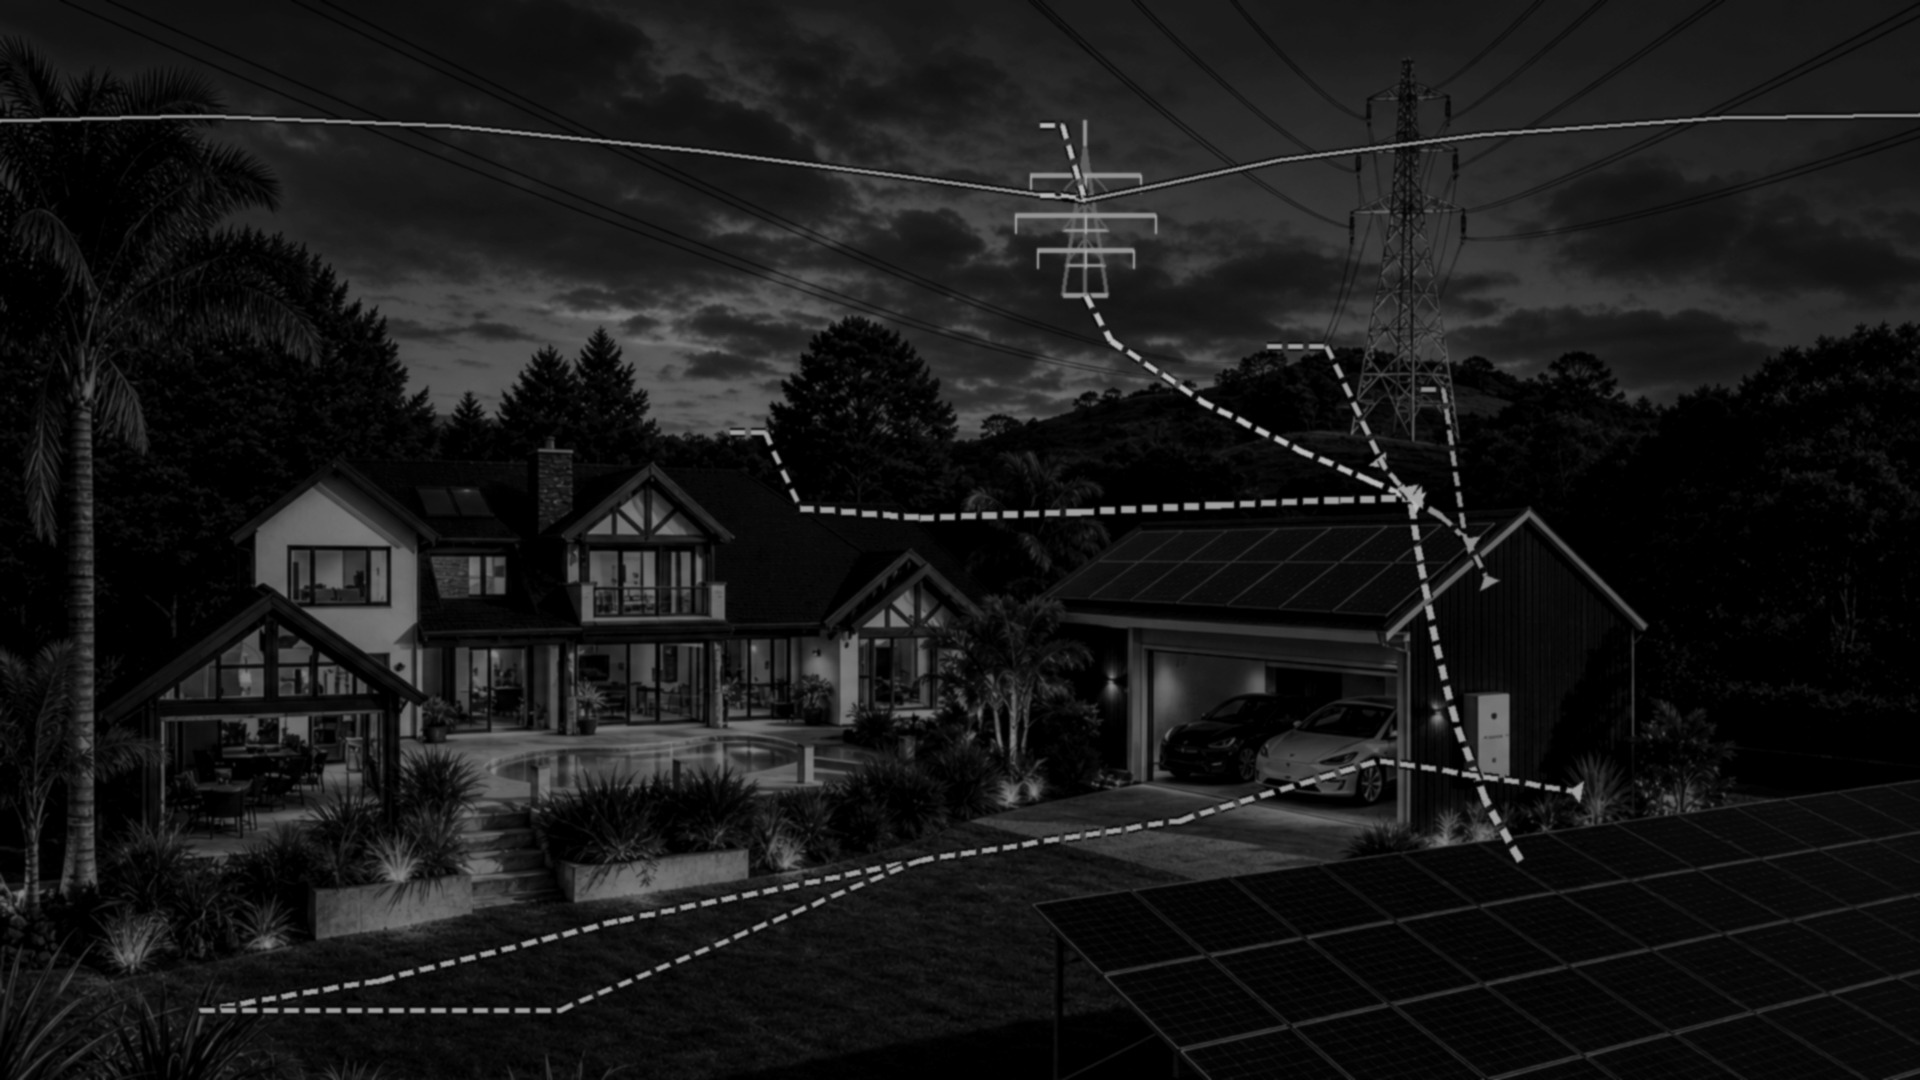
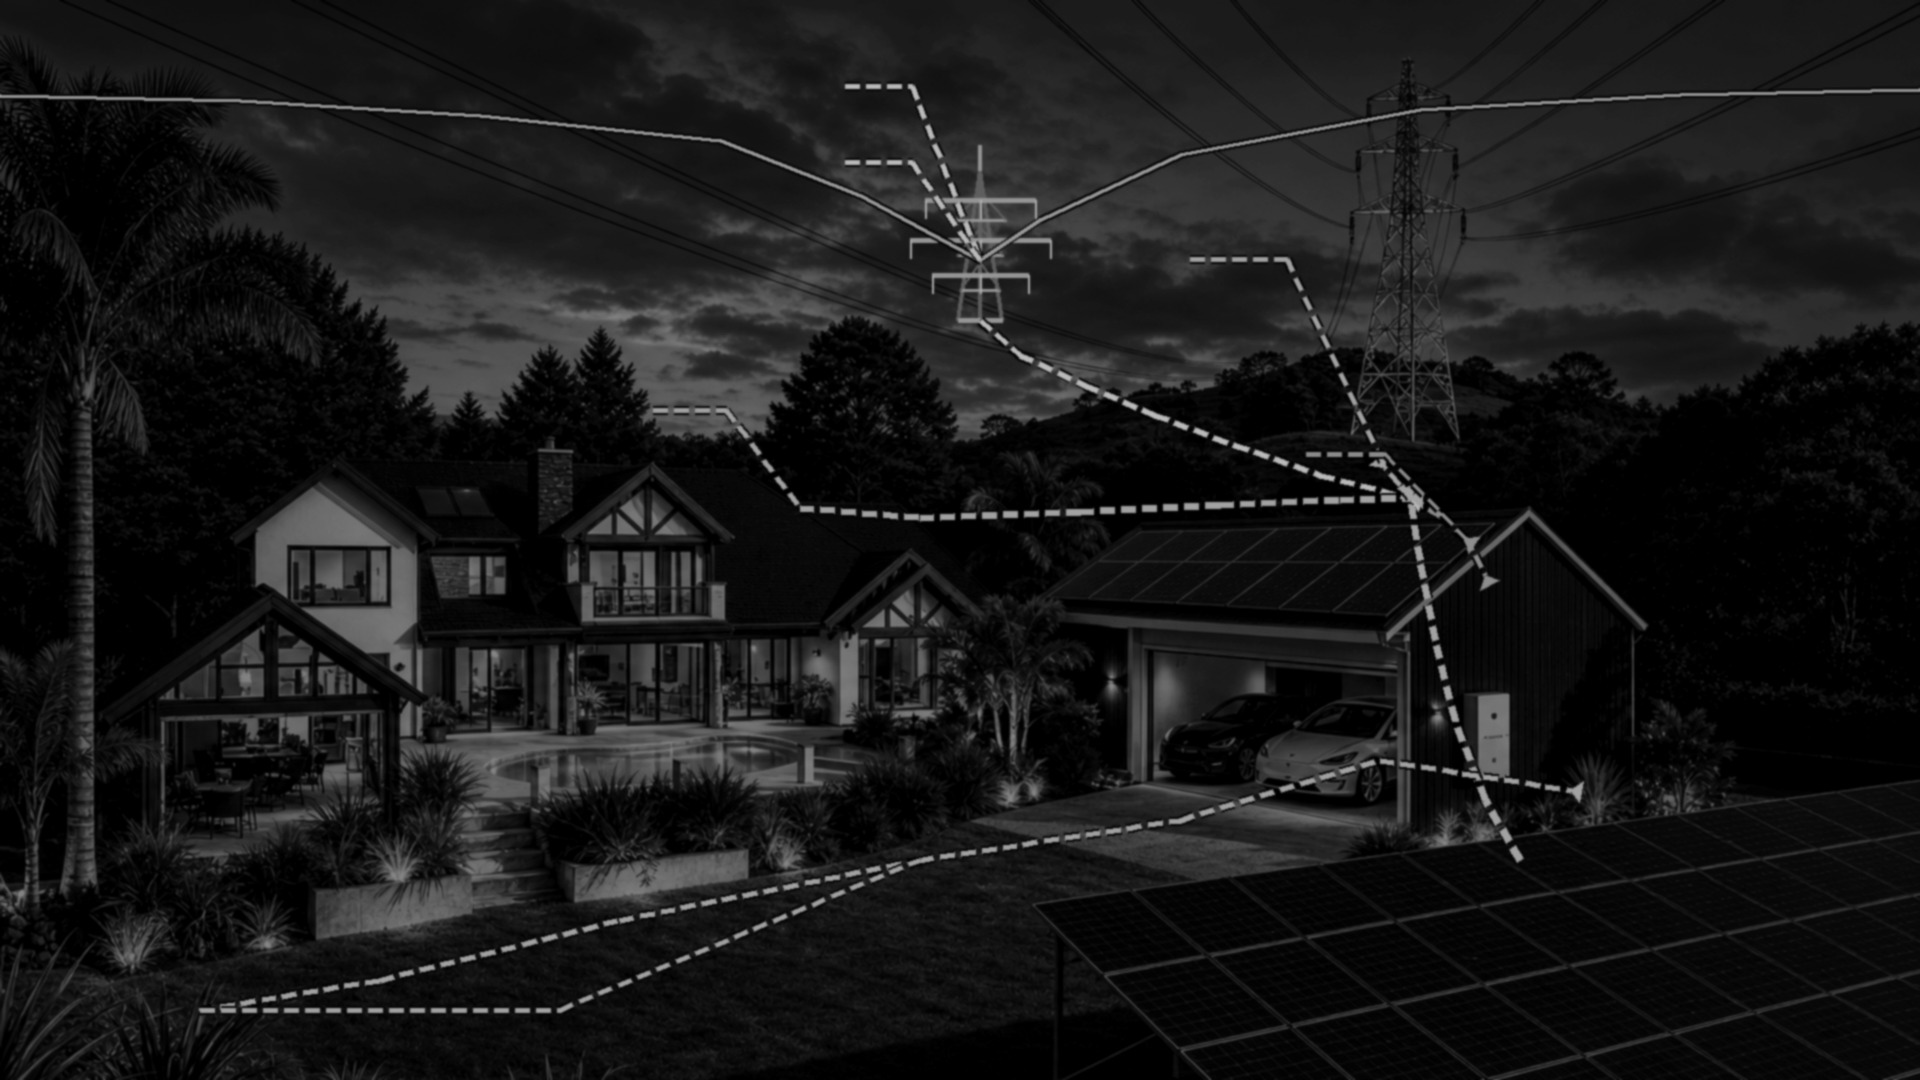
Move v4 pylon to hill center and fix card safe zones.
Reposition lattice tower and HV lines at ~(980,260), use contain letterboxing for full scene visibility, and spread picture-element cards off overlapping corners.

diff --git a/home-assistant/solar-dashboard/scripts/build_v4_backgrounds.py b/home-assistant/solar-dashboard/scripts/build_v4_backgrounds.py
@@ -15,8 +15,8 @@ OUT = ROOT / "www" / "solar-dashboard" / "backgrounds" / "v4"
 SIZE = (1920, 1080)
 
 SITE = {
-    "pylon": (1085, 200),
-    "pylon_base": (1085, 295),
+    "pylon": (980, 260),
+    "pylon_base": (980, 320),
     "inverter": (1410, 498),
     "battery_wall": (1385, 468),
     "ev_charger": (1465, 538),
@@ -25,11 +25,11 @@ SITE = {
 }
 
 CARD_STUBS = {
-    "grid": ((1040, 125), "pylon"),
-    "grid_details": ((1040, 195), "pylon"),
-    "home": ((730, 432), "house_tie"),
-    "battery": ((1267, 346), "battery_wall"),
-    "garage": ((1421, 389), "ev_charger"),
+    "grid": ((845, 86), "pylon"),
+    "grid_details": ((845, 162), "pylon"),
+    "home": ((653, 410), "house_tie"),
+    "battery": ((1190, 259), "battery_wall"),
+    "garage": ((1306, 454), "ev_charger"),
     "solar_array": ((200, 1010), "array_field"),
 }
 
@@ -53,10 +53,11 @@ ROUTES = {
     ],
     "grid_pylon_to_inverter": [
         SITE["pylon_base"],
-        (1110, 340),
-        (1200, 400),
-        (1300, 450),
-        (1370, 480),
+        (1020, 355),
+        (1085, 385),
+        (1155, 415),
+        (1235, 445),
+        (1320, 475),
         SITE["inverter"],
     ],
     "house_to_inverter": [
@@ -73,8 +74,8 @@ ROUTES = {
 }
 
 HV_LINES = {
-    "from_left": [(0, 120), (200, 115), (450, 125), (700, 150), (900, 175), SITE["pylon"]],
-    "from_right": [(1919, 115), (1720, 118), (1480, 135), (1280, 160), (1160, 185), SITE["pylon"]],
+    "from_left": [(0, 95), (240, 100), (480, 115), (720, 140), (860, 195), SITE["pylon"]],
+    "from_right": [(1919, 90), (1680, 95), (1420, 110), (1180, 155), (1040, 220), SITE["pylon"]],
 }
 
 
